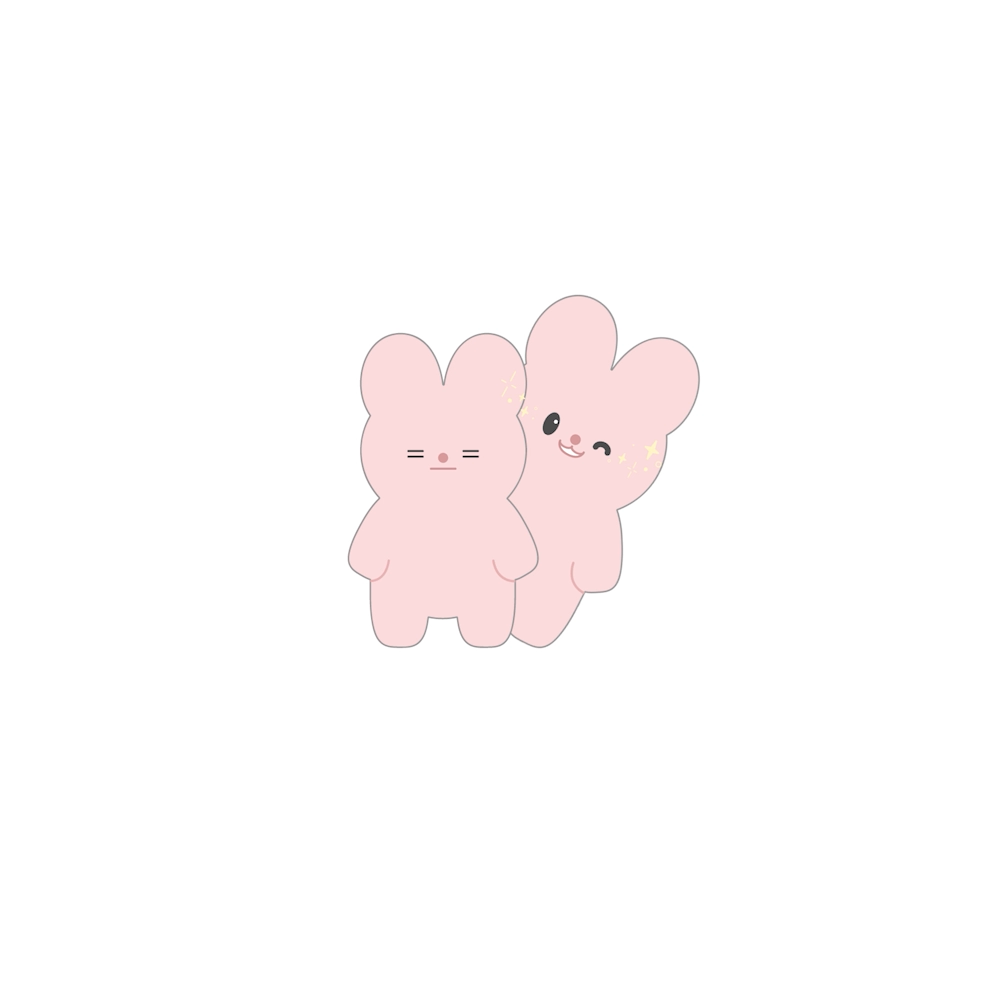
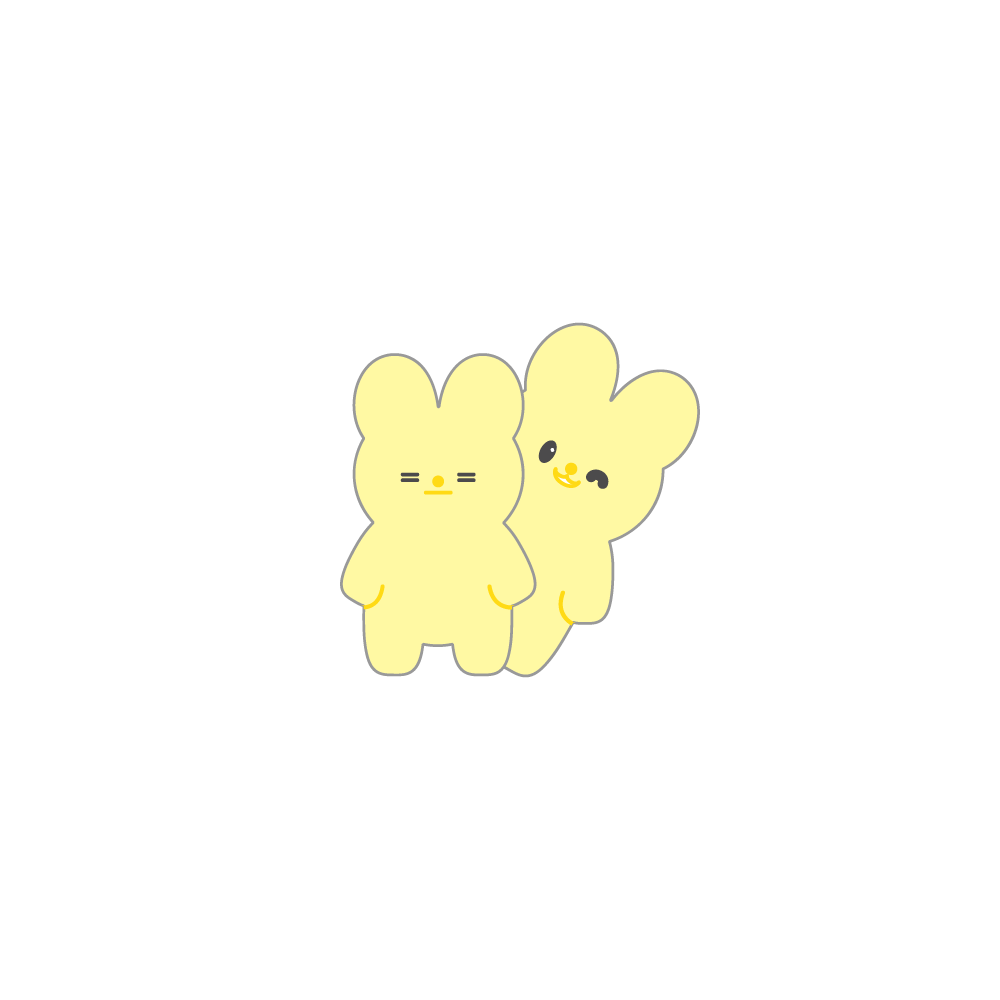
update 1216

Changed region(s): [[0.341, 0.279, 0.713, 0.682]]

diff --git a/camera_app/Buttons/PopupBtns/TwoPeoplePopup.js b/camera_app/Buttons/PopupBtns/TwoPeoplePopup.js
@@ -55,7 +55,7 @@ const twoPopup = () => {
                         <TouchableHighlight
                             style={{
                                 ...styles.openButton,
-                                backgroundColor: '#4d4d4d'
+                                backgroundColor: '#fff9a3'
                             }}
                             onPress={() => {
                                 setModalVisible(false);
